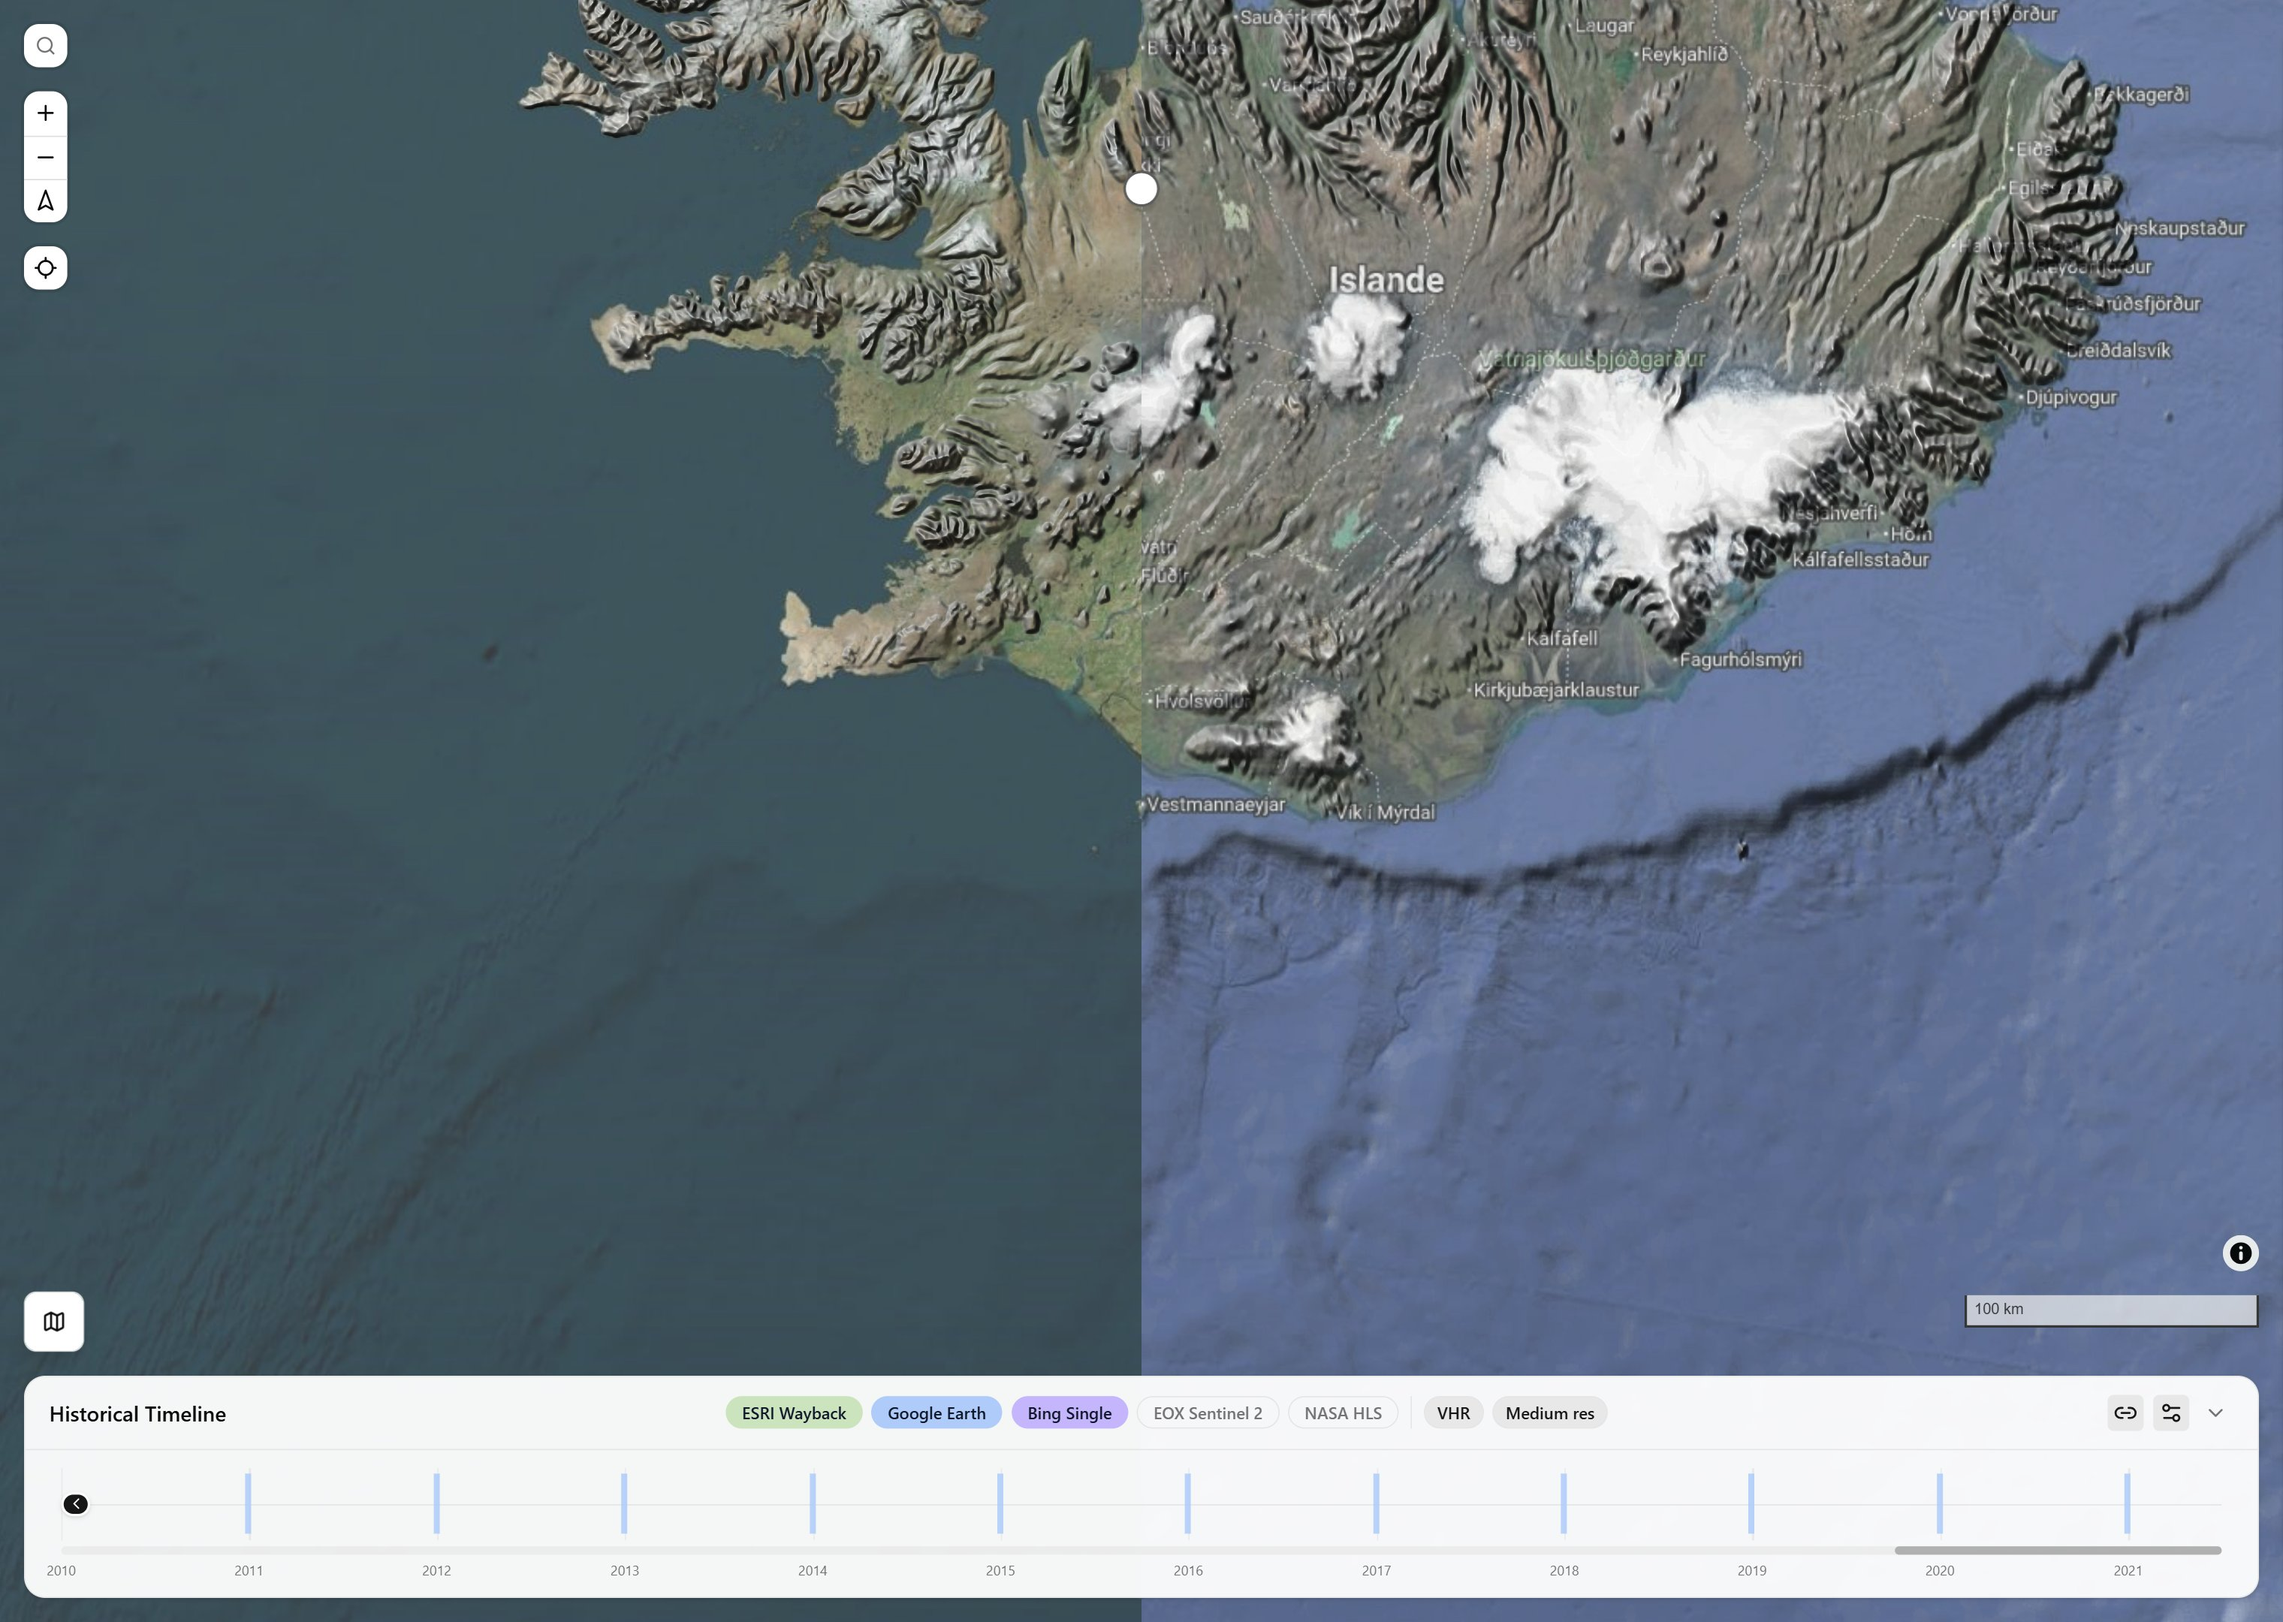
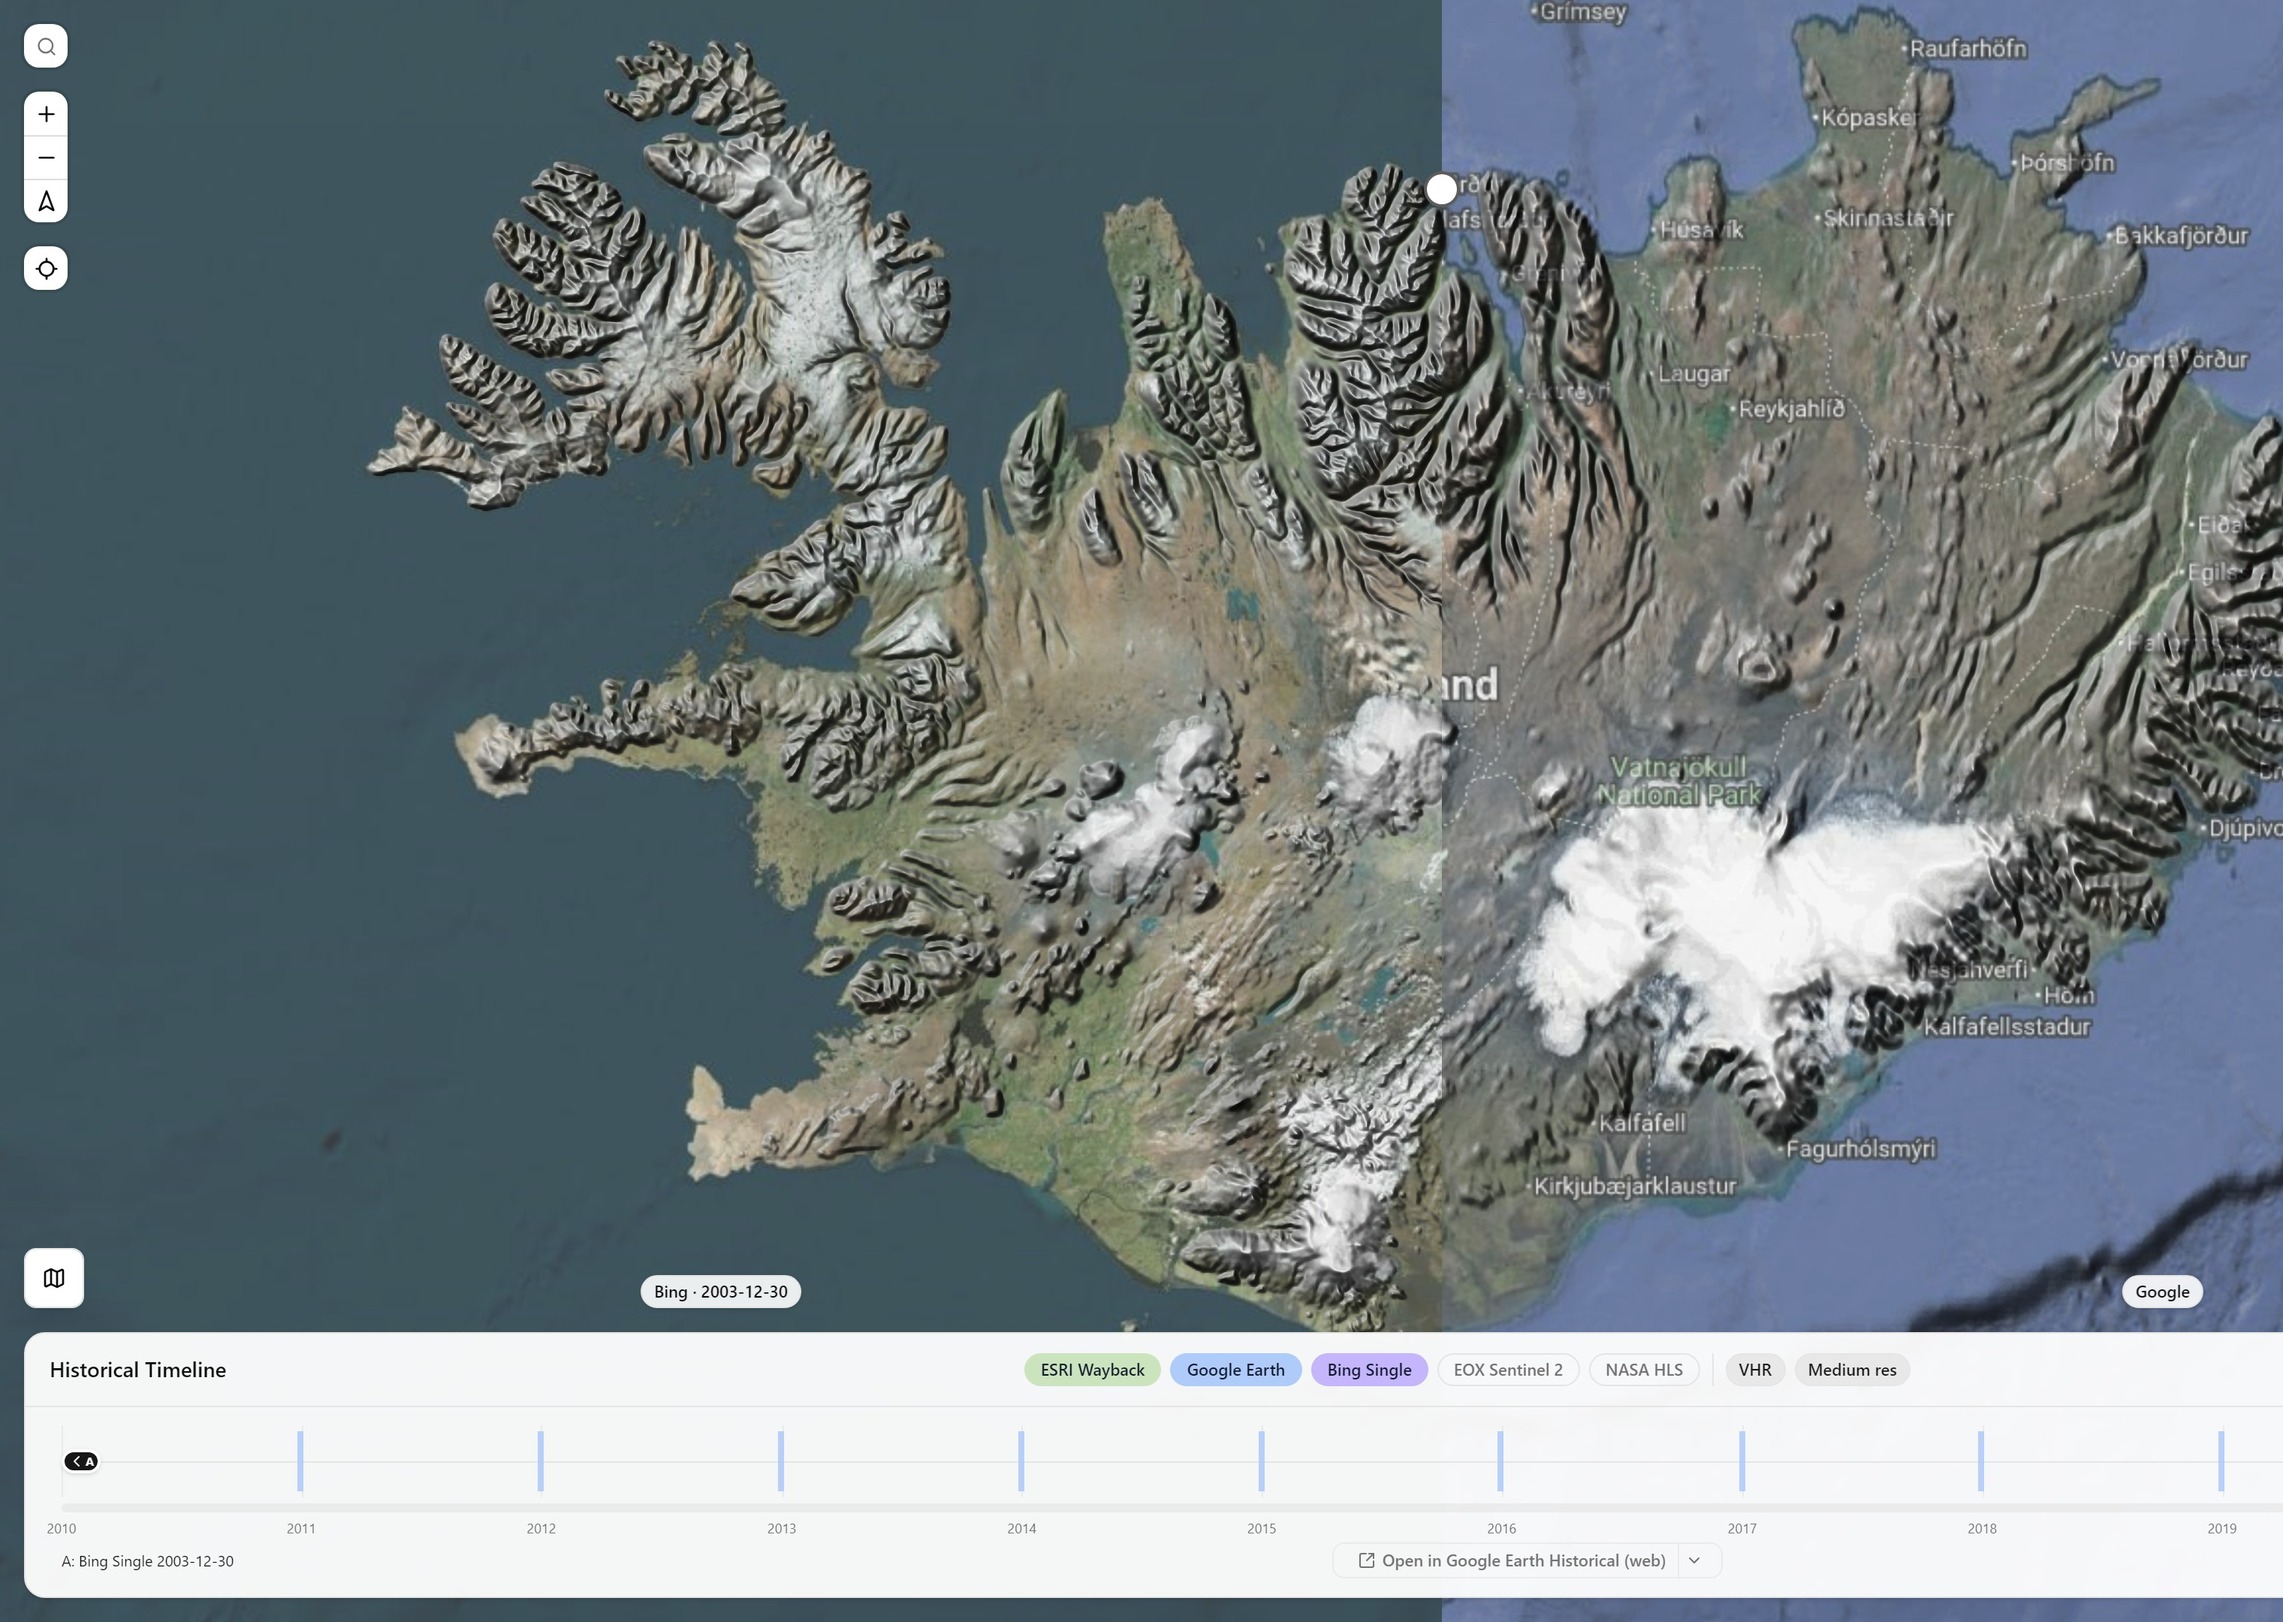
Iceland preset: corrected whole-island viewport + fresh thumbnail
New camera (zoom 6.39, 65.04/-18.53, top-down 2D) per user URL — the old
one cropped the island; sourceB override dropped. Thumbnail recaptured
from prod at the same map-only 3040x2160 convention.

diff --git a/lib/preset-bookmarks.ts b/lib/preset-bookmarks.ts
@@ -96,8 +96,8 @@ export const PRESET_BOOKMARKS: Bookmark[] = [
     ts: 0,
     thumb: "/bookmark-thumbs/iceland-overlay.jpg",
     search: presetSearch({
-      viewMode: "2d", zoom: 6.1, lat: 63.7946, lng: -18.2345, pitch: 50,
-      splitStyle: "overlay", sourceB: "aws", showRasterBasemap: true, basemapSourceA: "bing",
+      viewMode: "2d", zoom: 6.39, lat: 65.0406, lng: -18.5289, pitch: 0,
+      splitStyle: "overlay", showRasterBasemap: true, basemapSourceA: "bing",
       dateA: 1072825200000, tellsBeta: true, tellsFrozen: true,
       overlayOpacity: 0.8834786817944542, rasterBasemapOpacity: 0.8,
     }),
